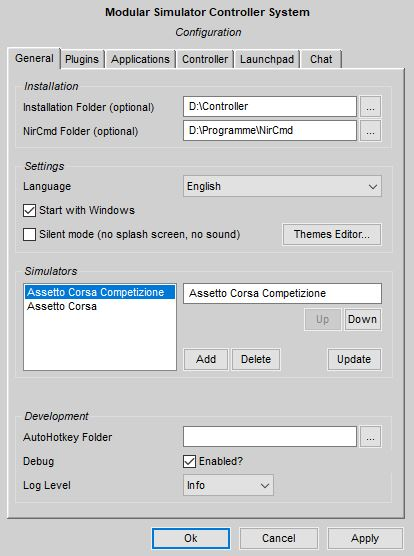
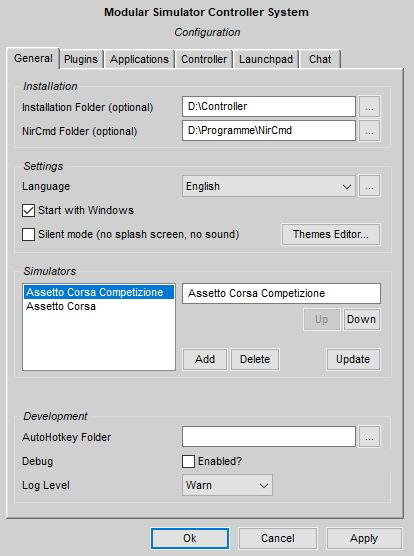
Translations Part 22

diff --git a/Docs/Installation & Configuration.md b/Docs/Installation & Configuration.md
@@ -34,11 +34,11 @@ The configuration tool consists of several pages or tabs. Below you will find a 
 
 ### Tab *General*
 
-As the name of this tab suggests, some very general configuration options are provided. In the *Installation Folders* group you can identify the root folder of the Simulator Controller installation - optional in most cases, but it may provide some performance benefits. The second path identifies the *NirCmd* executable, which is used by the Simulator Controller to control the sound volume of some simulation games. Optional, but helpful. See the [README](https://github.com/SeriousOldMan/Simulator-Controller#third-party-applications) for a link to the *NirCmd* download.
+As the name of this tab suggests, some very general configuration options are provided. In the *Installation* group you can identify the root folder of the Simulator Controller installation - optional in most cases, but it may provide some performance benefits. The second path identifies the *NirCmd* executable, which is used by the Simulator Controller to control the sound volume of some simulation games. Optional, but helpful. See the [README](https://github.com/SeriousOldMan/Simulator-Controller#third-party-applications) for a link to the *NirCmd* download.
 
 ![](https://github.com/SeriousOldMan/Simulator-Controller/blob/main/Docs/Images/Configuration%20Tab%201.JPG)
 
-The second group, *Startup*, allows you to choose whether the Simulator Controller will start together with Windows and whether it will run silently, i.e. without any splash animation or sound. With the button "Themes Editor..." you can jump to a special editor to customize the splash dialogs of various applications of Simulator Controller. See the chapter on the [themes editor](https://github.com/SeriousOldMan/Simulator-Controller/wiki/Installation-&-Configuration#themes-editor) for a complete explanation of themes.
+The second group, *Settings* allows you to choose whether the Simulator Controller will start together with Windows and whether it will run silently, i.e. without any splash animation or sound. With the button "Themes Editor..." you can jump to a special editor to customize the splash dialogs of various applications of Simulator Controller. See the chapter on the [themes editor](https://github.com/SeriousOldMan/Simulator-Controller/wiki/Installation-&-Configuration#themes-editor) for a complete explanation of themes. Last but not least you may choose a language for all user interface elements. English as the base language and a German translation are part of the Simulator Controller distribution, but you may define your own translations using the [translations editor](https://github.com/SeriousOldMan/Simulator-Controller/wiki/Installation-&-Configuration#translations-editor), wich you can open by clicking on the small button next to the language drop down.
 
 You can add all the simulation games installed on your PC to the list in the third group *Simulators*. For each entry here, you also need to create a similar named application entry in the applications tab. The order of the entries in the *Simulators* list is important, at least the first one has a special role. More on that later. You can change the order with the "Up" and "Down" button, if an entry is selected. As with any list in the configuration tool, an entry must be selected with a double click for editing.
 
@@ -162,3 +162,12 @@ Some words about using the editor:
   - Due to a restriction in AutoHotkey, only the GIF format is currently supported for animations. A future version of Simulator Controller will support YT videos, MP4 files and other as well. For now you can convert your favorite MP4 file to a GIF image by using one of the available online converters, for example [Convertio](https://convertio.co/de/mp4-gif/) .
 
 After definition of a theme, you can choose it for the [startup sequence](https://github.com/SeriousOldMan/Simulator-Controller/wiki/Using-Simulator-Controller#other-settings) or even while the build tool is currently compiling your favorite plugin, if you are a developer.
+
+## Translations Editor
+Another special editor is used for maintaining different language translations. In the translation process, you can provide a language specific translated text for each user interface element or other texts used by the Simulator Controller. The original language, on which the translation is based, is English. A translation must be identified by its [ISO language code](https://en.wikipedia.org/wiki/List_of_ISO_639-1_codes), for example "EN", and has a user friendly language identfier, for example "English". The translation information is stored by the *Translations Editor* in the folder identified by *kUserConfigDirectory* in a file named "Translations.LC", where LC is the given ISO language code.
+
+![](https://github.com/SeriousOldMan/Simulator-Controller/blob/main/Docs/Images/Translations%20Editor.JPG)
+
+You can choose any of the available languages and edit the defined translations, or you create a new language by pressing the '+' button next to the language drop down. Last but not least, you can delete a given language, but be aware, that this cannot be undone.
+
+Important: The ISO language code and the language name itself, cannot be changed, one a new language has been initially saved. So choose them wisely.

diff --git a/Docs/Functions Reference.md b/Docs/Functions Reference.md
@@ -112,19 +112,19 @@ Sorts the given array in place, using *comparator* to define the order of the el
 A simple translation support is built into Simulator Controller. Every text, that appears in the different screens and system messages may translated to a different language than standard English. To support this, a single tranlation file (see the [translation file](https://github.com/SeriousOldMan/Simulator-Controller/blob/main/Resources/Templates/Translations.de) for German for an example) must exist for each target language in one of the *Config* folders.
 
 #### *availableLanguages()*
-Returns a map, where the key defines the ISO language code and the value the language name (example: *{en: English, de: Deutsch}*. The map is populated with all available translations.
+Returns a map, where the key defines the [ISO language code](https://en.wikipedia.org/wiki/List_of_ISO_639-1_codes) and the value the language name (example: *{en: English, de: Deutsch}*. The map is populated with all available translations.
 
 #### *readTranslations(languageCode :: String)*
-Returns a translation map for the given ISO language code. Keys are the original texts in English with the translated texts as their values. Normally, it is much more convinient to use the *translate* function below.
+Returns a translation map for the given [ISO language code](https://en.wikipedia.org/wiki/List_of_ISO_639-1_codes). Keys are the original texts in English with the translated texts as their values. Normally, it is much more convinient to use the *translate* function below.
 
 #### *writeTranslations(languageCode :: String, languageName :: String, translations :: Map)*
-Saves a translation map for the given ISO language code and language name. The format of the *translations* map must be according to the description in *readTranslations*. The translation map is stored in a file named "Translations.LC", where LC is the given ISO language code, in the folder identified by *kUserConfigDirectory*.
+Saves a translation map for the given [ISO language code](https://en.wikipedia.org/wiki/List_of_ISO_639-1_codes) and language name. The format of the *translations* map must be according to the description in *readTranslations*. The translation map is stored in the folder identified by *kUserConfigDirectory* in a file named "Translations.LC", where LC is the given ISO language code.
 
 #### *setLanguage(languageCode :: String)*
-The ISO language code for the target language, for example "de" for German.
+The [ISO language code](https://en.wikipedia.org/wiki/List_of_ISO_639-1_codes) for the target language, for example "de" for German.
 
 #### *getLanguage()*
-Returns the ISO language code for the active language.
+Returns the [ISO language code](https://en.wikipedia.org/wiki/List_of_ISO_639-1_codes) for the active language.
 
 #### *translate(string :: String)*
 *string* is a text in English. *translate* reads the translations for the current target language and returns the translated text, or *string* itself, if no translation can be found.
